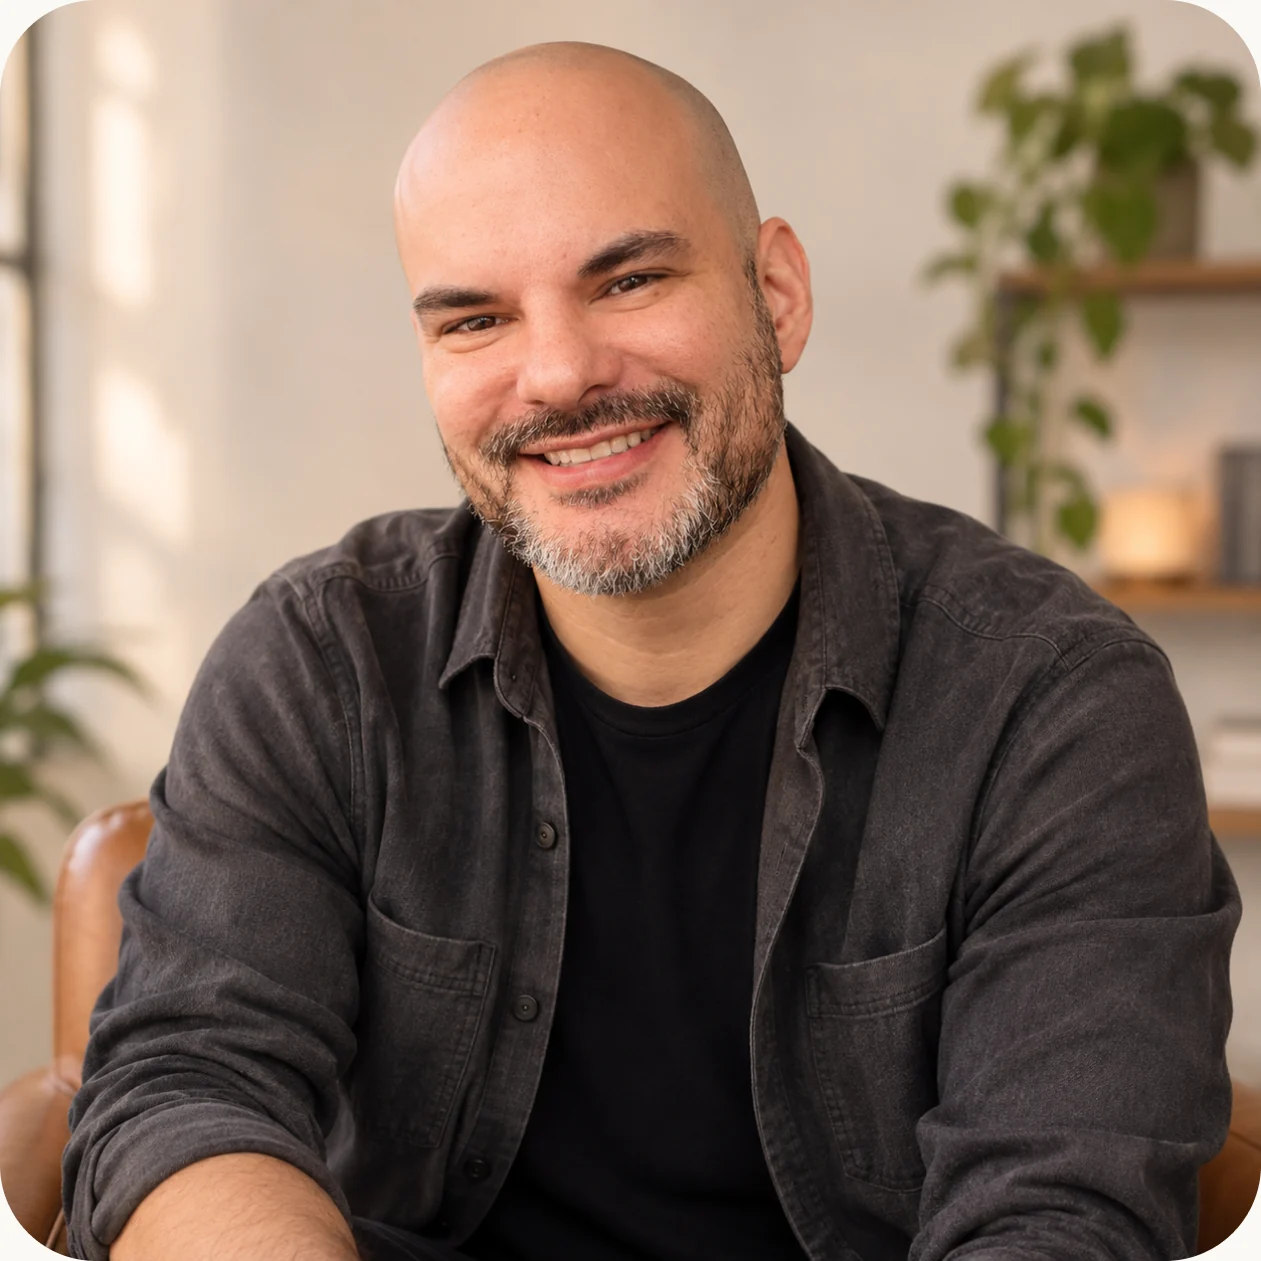
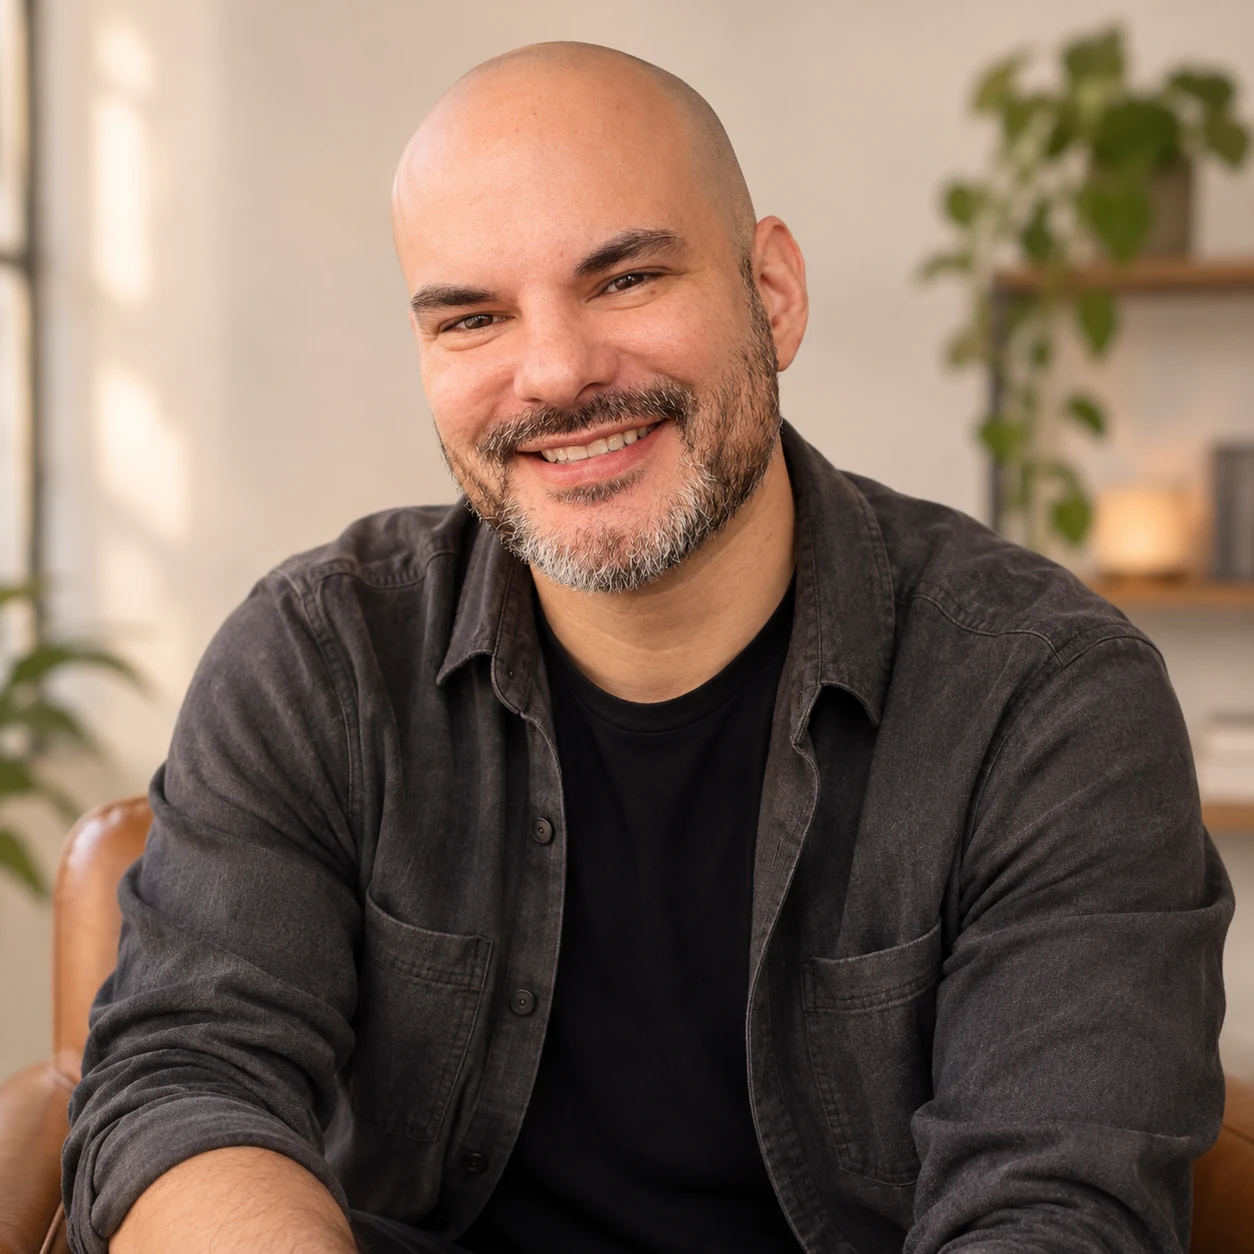
About photo: re-export from Figma source with square corners
Claude-Session: https://claude.ai/code/session_01FHsoQyXJHBsa3RbU5rA96Q

diff --git a/index.html b/index.html
@@ -156,7 +156,7 @@
   <section id="about" class="about">
     <h2>Curious by nature. Thoughtful by design.</h2>
     <div class="about-body">
-      <div class="about-photo"><img src="assets/billy-photo.webp" alt="Portrait of Billy Tamplin" loading="lazy"></div>
+      <div class="about-photo"><img src="assets/billy-photo.webp?v=2" alt="Portrait of Billy Tamplin" loading="lazy"></div>
       <div class="about-text">
         <p>I’m Billy, a brand and marketing designer with 15+ years of experience. I combine design and illustration to help technology companies explain complex ideas and connect with people. I’m based in Tampa, work remotely, and I’m relocating to Illinois in 2027.</p>
         <p>My background includes marketing design at Cisco Meraki, brand illustration for Highfive, and co-founding Semi Sweet Designs. Building a business has shaped how I work: understand the audience, make thoughtful creative decisions, and see the details through.</p>
